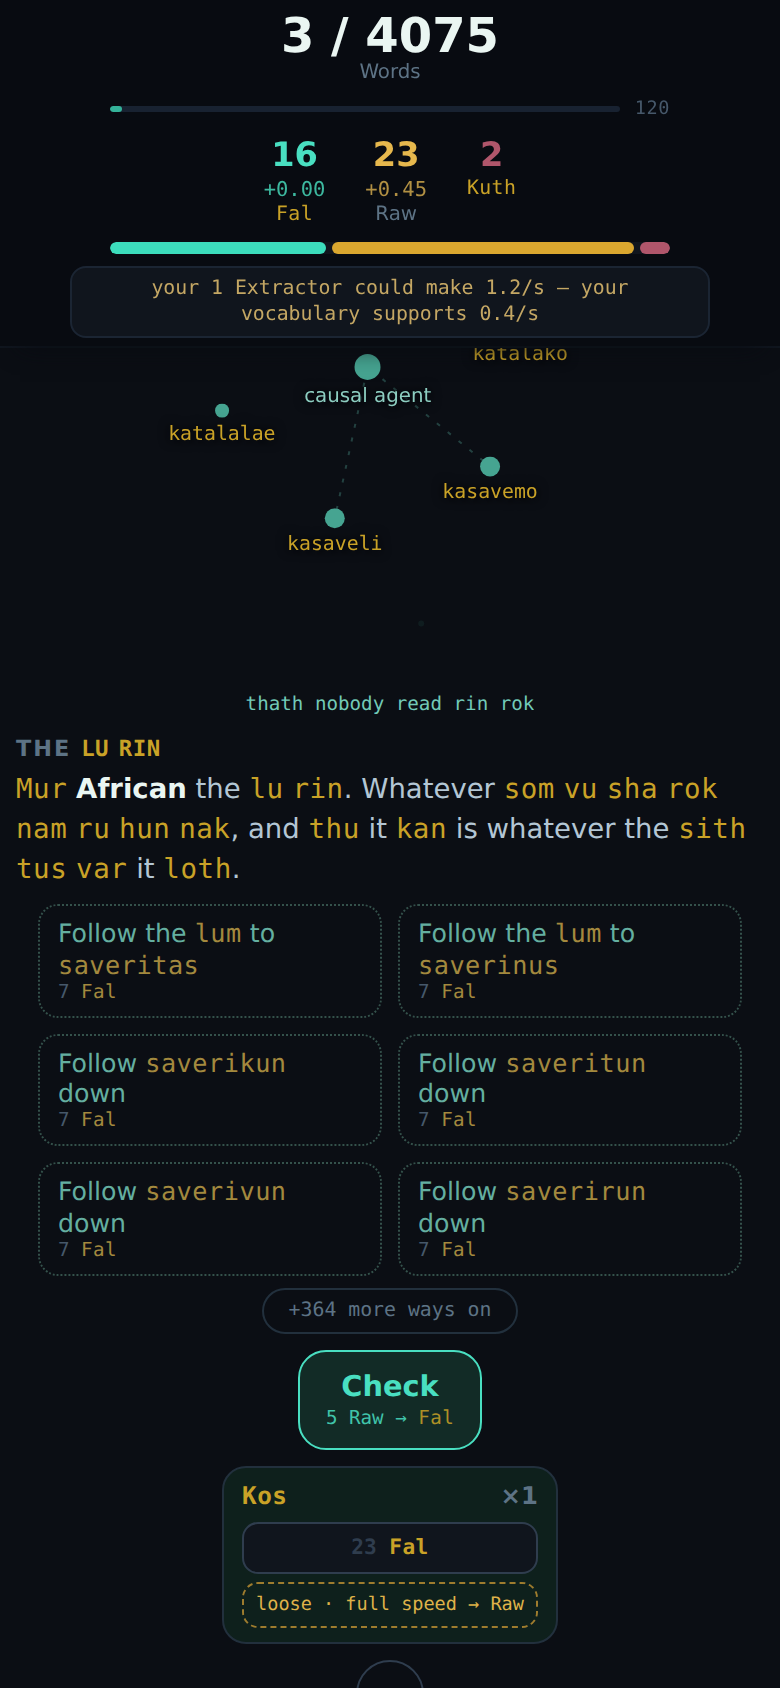
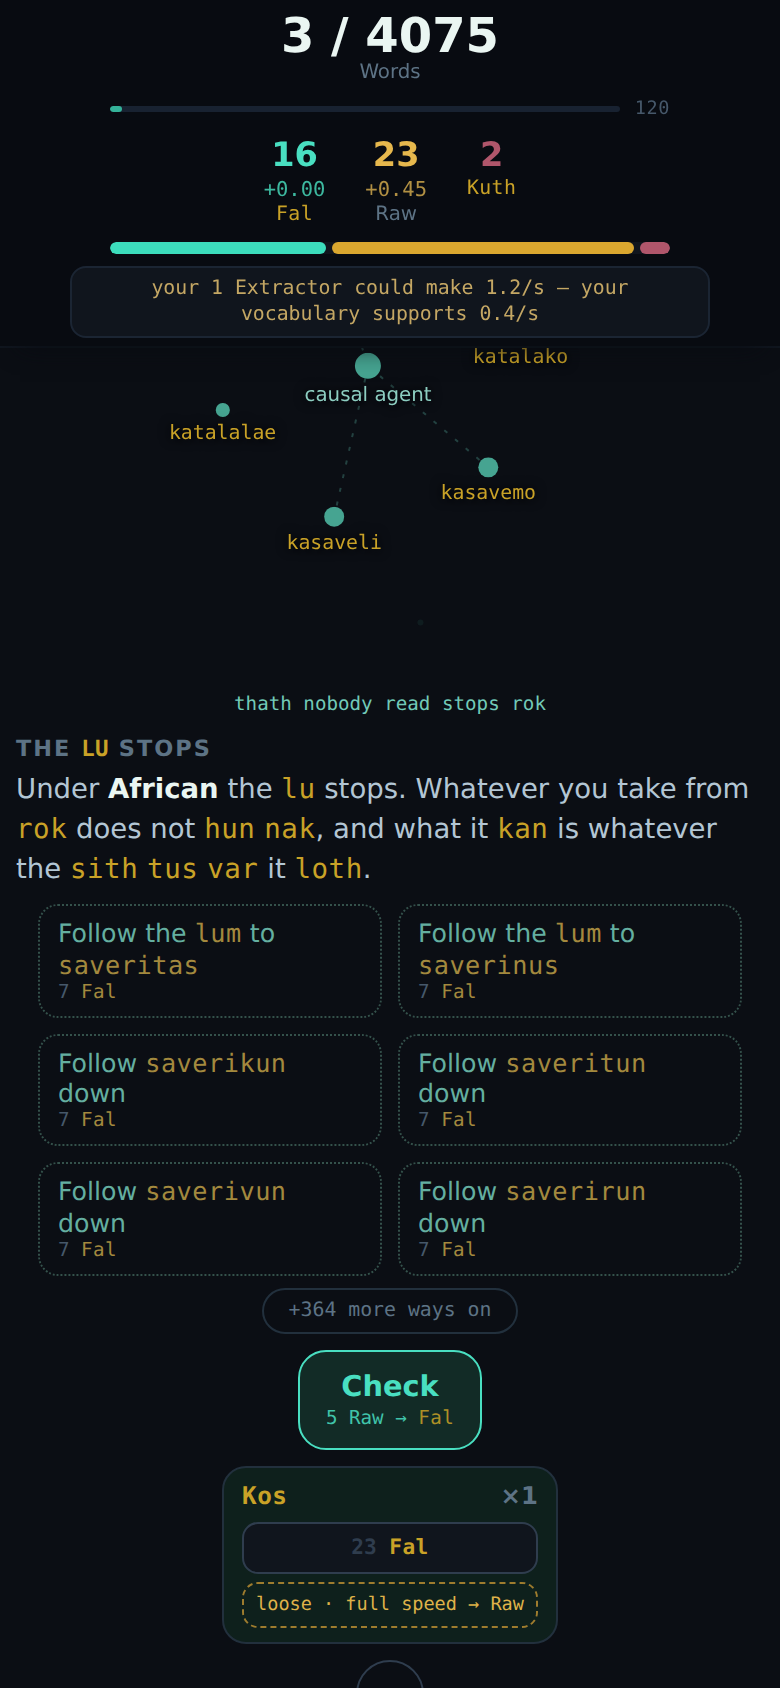
The player wakes knowing the grammar, not the words
Owner, playing the live build: "i must have some english words at the start for
it to make sense in any way." The opening screen read

    NEN ROR SEM
    kasavemo ka lar nen ror rith nuth fuk, hik vik sak ru lar fuk ka mek.

Every word foreign is not a language, it is a wall - and it is not how the
thing this borrows from reads. No Man's Sky keeps the sentence structure and
swaps the content. They had told me this before and I offered the option; we
went further, and playing it settled it.

literacy.SEED_WORDS binds the closed class from the first frame: articles,
pronouns, the copula and bare auxiliaries, the common prepositions and
conjunctions, and the four movement verbs the choice frames are made of.
Everything that carries meaning is still earned - open class by frequency,
concepts by discovery.

Chosen BY HAND rather than by taking the top N of the frequency table, because
frequency would hand over `checked`, `filed` and `machines` - the game telling
you what it is doing, which is exactly what the player is meant to work out.

`here`, `there` and `now` are deliberately not seeded. They look closed-class
and are not: they point at something, and pointing is content. Seeding them
rendered the whole ticker line "Extractor #2 is here" in plain English.

The opening now reads:

    THE LU STOPS
    Under African the lu stops. Whatever you take from rok does not hun
    nak, and what it kan is whatever the sith tus var it loth.
      Follow the lum to saveritas · 7 Fal
[…]

diff --git a/src/core/literacy.ts b/src/core/literacy.ts
@@ -84,9 +84,61 @@ export function bound(state: GameState): number[] {
   return state.held.filter((id) => !seed.has(id));
 }
 
-/** The carrier words the player can now read. */
+/* THE GRAMMAR YOU WAKE UP WITH.
+ *
+ * Owner, 2026-07-28, playing the live build: "i must have some english words at
+ * the start for it to make sense in any way." The opening screen read
+ *
+ *     NEN ROR SEM
+ *     kasavemo ka lar nen ror rith nuth fuk, hik vik sak ru lar fuk ka mek.
+ *
+ * which has no skeleton to hold on to. Every word foreign is not a language, it
+ * is a wall — and it is not how the thing this borrows from actually reads:
+ * No Man's Sky keeps the sentence structure and swaps the CONTENT.
+ *
+ * So the closed class starts bound: articles, pronouns, the copula, the
+ * commonest prepositions, and the four movement verbs the choice frames are
+ * built from. Everything that carries MEANING — nouns, most verbs, adjectives —
+ * still has to be earned by frequency, and every concept still has to be earned
+ * by discovery.
+ *
+ * The test is the frame sentences, since they are what most beats render:
+ * "Follow the ⟦…⟧ down" and "Under ⟦…⟧ the tree stops" should read as English
+ * sentences with foreign nouns in them from the first frame. Choosing these by
+ * hand rather than by taking the top N of the frequency table is deliberate —
+ * frequency would hand over "checked", "filed" and "machines", which are the
+ * game telling you what it is doing, and that is exactly what you are meant to
+ * work out.
+ *
+ * `here`, `there` and `now` are deliberately NOT seeded. They look like closed
+ * class and they are not - they point at something, and pointing is content.
+ * Seeding them made "Extractor #2 is here" render fully English, which is a
+ * whole ticker line saying something in a game whose premise is that you cannot
+ * read it yet. */
+export const SEED_WORDS: readonly string[] = [
+  // articles and determiners
+  'a', 'an', 'the', 'this', 'that', 'every', 'no', 'any', 'both',
+  // pronouns
+  'it', 'its', 'you', 'your', 'they', 'them', 'what', 'which', 'one',
+  // copula and the bare auxiliaries
+  'is', 'are', 'was', 'were', 'be', 'been', 'has', 'have', 'do', 'does', 'did',
+  // prepositions and conjunctions - the joints of a sentence
+  'of', 'to', 'in', 'on', 'at', 'by', 'for', 'from', 'with', 'under', 'over',
+  'below', 'above', 'into', 'out', 'up', 'down', 'and', 'or', 'but', 'not',
+  'than', 'as', 'so', 'if', 'when', 'while',
+  // the verbs the choice frames are made of - a button must be a verb
+  'follow', 'take', 'go', 'back', 'cross', 'keep', 'hold', 'stop', 'stops',
+];
+
+/** The carrier words the player can now read.
+ *
+ *  Seeded with the closed class (see above), then grown by exposure. A seed
+ *  word with no foreign form is dropped rather than asserted: `canRead` already
+ *  treats an untranslated word as readable, so adding it here would claim a
+ *  binding that does not exist. */
 export function knownWords(state: GameState): Set<string> {
   const out = new Set<string>();
+  for (const w of SEED_WORDS) if (LANGUAGE.words[w]) out.add(w);
   for (const [w, n] of exposure(state)) {
     if (n >= LEARN_AT && LANGUAGE.words[w]) out.add(w);
   }

diff --git a/test/ticker.test.ts b/test/ticker.test.ts
@@ -96,6 +96,14 @@ describe('the dock, end to end', () => {
     observeTransition(prev, next);
     const text = last();
     expect(text).toContain(`#${next.machines.extractor}`);
+    // The CONTENT word is foreign; the skeleton is not. Since 2026-07-28 the
+    // closed class ships bound (literacy.SEED_WORDS) because a screen with no
+    // English at all had nothing to grip - so asserting the whole line is
+    // foreign would now assert a wall, which is the thing that was fixed.
+    // `Extractor` is the machine's own noun and must not read as English here.
+    // `Extractor` itself IS readable here and should be: the machine noun is
+    // earned by owning one you bought, and this transition is that purchase.
+    // What must stay foreign is the sentence's open-class verb.
     expect(text).not.toContain('is here');
   });
 
@@ -108,8 +116,15 @@ describe('the dock, end to end', () => {
     const LINE = 'the machines have nothing to take';
     say('test:retro', LINE);
     const id = get(ticker).at(-1)!.id;
-    expect(last()).toBe(speak(LINE, NOTHING, NOTHING));
-    expect(last()).not.toContain('the ');
+    // The baseline is no longer "nothing known": since 2026-07-28 the closed
+    // class ships bound (literacy.SEED_WORDS), because a screen with no English
+    // at all had no skeleton to grip. So `the`, `have` and `to` read from the
+    // first frame and the OPEN class does not - which is the state this test
+    // starts from, and the thing it then watches change.
+    const START = knownWords(initialState());
+    expect(last()).toBe(speak(LINE, START, START));
+    expect(last()).not.toContain('machines');
+    expect(last()).toContain('the ');
 
     // Now make the player literate: standing in every beat is what teaches
     // carrier words, and `the` is the commonest word in the corpus.

diff --git a/docs/DECISIONS.md b/docs/DECISIONS.md
@@ -1744,3 +1744,4 @@ Entries above this line are long because the one-line rule did not exist yet.
 - 2026-07-28 — **ONE RULE FOR WHEN A WORD TURNS ENGLISH: three of the thing it names.** Three beats' worth of exposure for a carrier word (`LEARN_AT`), three of the quantity for a readout's noun, on a total that only ever rises so a word is never taken back. That is the whole rule and it is the same number everywhere. It replaces four different rules on one screen — Words at three concepts, Solid at the first machine you buy, Raw at one whole Rot, Rot at three Rot — which a player could not infer from each other and therefore could not infer at all. Witnesses, since the save keeps no high-water mark for the two quantities that fall: Words `words`, Solid `minted`, Raw and Rot `rot`, each with `veteran` so a Retrain never unlearns one. Raw's proxy is late rather than early, which is the correct direction; a noun that arrives before the quantity does is a legend. *(Stated here, not landed: `src/core/readouts.ts` still carries the four old witnesses and is owned by another session this cycle.)*
 - 2026-07-28 — **The ticker says everything in words the beats print, and `check:story` invariant 8 fails the build on one that cannot be learned.** The dock's only way into a word is frequency across the beats you have stood in — it is not a place, so standing in it teaches nothing — and every line shipped that morning was written in vocabulary no beat contains: `online`, `wore`, `never`, `out`, `ahead`, `vocabulary`, `slower`, `faster`, `looking`, `away`, `first`, `bound` all occur ZERO times. Invariant 6 was green the whole time, because the words had forms; a form with no way in is a permanent blank, not a slow one. Every mechanical line is now built from words the leaf and descent frames print in the thousands (`take`, `here`, `stops`, `nothing`, `filed`, `hold`), and the two words the beats will never teach — `watched` and `loose` — ride on the quantity each half makes, exactly as the HUD's do. The gate counts the RENDERED corpus, frames filled and leaves included: counting the compiled beats instead reports `stops` at 2 rather than 8,060 and would reject the safest vocabulary in the game.
 - 2026-07-28 — **The conlang's English blocklist is the shipped dataset, not a hand-typed list.** Eleven forms in play were English words, including `kith` for `the` — the single most frequent word in the game — and `non` for `definition`, which is the first lane on every leaf. A language whose commonest word is an English noun reads as broken English, which is the thing masking was rebuilt to stop. 4,096 WordNet labels and their glosses give 9,345 blocked types, no new dependency, and it grows with the ontology. The hand list stays unioned and deleting it is a regression: glosses are written prose and contain no `hi`, `ma` or `lo`, all three of which came straight back when it was dropped. Two codas (`m`, `k`) pay for the smaller space — without them 45% of the corpus spills into two syllables and the shape rule that lets a player tell grammar from content stops holding.
+- 2026-07-28 — **The closed class ships bound: the player wakes knowing the grammar, not the words.** Owner, playing the live build: "i must have some english words at the start for it to make sense in any way." The opening read `NEN ROR SEM / kasavemo ka lar nen ror rith nuth fuk` — every word foreign, which is not a language but a wall, and not how the thing this borrows from reads: No Man's Sky keeps the sentence structure and swaps the CONTENT. `literacy.SEED_WORDS` now binds articles, pronouns, the copula and bare auxiliaries, the common prepositions and conjunctions, and the four movement verbs the choice frames are built from. Everything carrying MEANING is still earned — open-class words by frequency, concepts by discovery. Chosen by hand rather than by taking the top N of the frequency table, because frequency would have handed over `checked`, `filed` and `machines`, which are the game telling you what it is doing and precisely what the player is meant to work out. `here`, `there` and `now` are deliberately excluded: they look closed-class and are not — they point at something, and pointing is content. Seeding them rendered the whole ticker line "Extractor #2 is here" in English.
